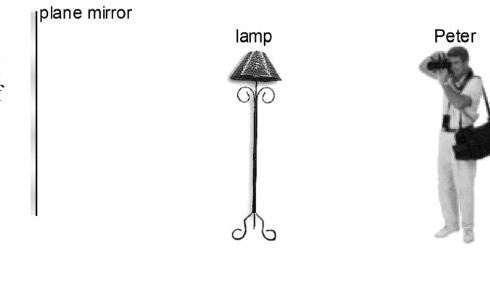
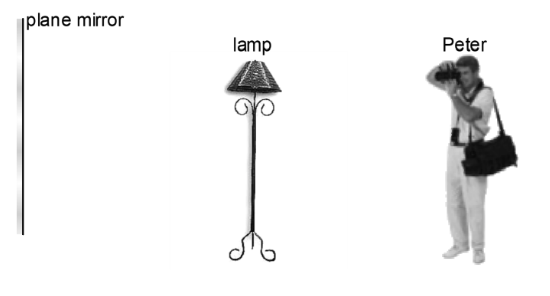
Ship ray-diagram lab tweaks and JPWM06 figure replacements.
Hide the navy editor chrome, rename the optics tool, and stop quiz diagrams stretching full-width. Replace the four JPWM06 question images with the cropped figures.

Changed region(s): [[0.7653, 0.0912, 1.0, 0.9122], [0.398, 0.0912, 0.5816, 0.8818], [0.0, 0.0, 0.2755, 0.7905]]

diff --git a/public/optics-ch3-quiz/js/quizData.js b/public/optics-ch3-quiz/js/quizData.js
@@ -40,7 +40,7 @@ export const QUIZ_ITEMS = [
     answer: "D",
     hint: "A plane mirror reverses left and right. The image 12 looks like SI, which corresponds to 10:10.",
     image: {
-      src: "./assets/jpwm06-1-clock.png",
+      src: "./assets/jpwm06-1-clock.png?v=20260911imgs",
       alt: "Clock image formed by a plane mirror",
       caption: "Fig · Plane-mirror image of a clock",
     },
@@ -60,7 +60,7 @@ export const QUIZ_ITEMS = [
     answer: "B",
     hint: "Reflected rays appear to come from the image I behind the mirror. Q and S do; P and R do not.",
     image: {
-      src: "./assets/jpwm06-2-rays.png",
+      src: "./assets/jpwm06-2-rays.png?v=20260911imgs",
       alt: "Plane mirror with object O and rays P, Q, R and S",
       caption: "Fig · Object O and rays at a plane mirror",
     },
@@ -80,7 +80,7 @@ export const QUIZ_ITEMS = [
     answer: "C",
     hint: "The lamp is 2 m from the mirror, so its image is 2 m behind the mirror. Peter is 4 m from the mirror, so he must focus 6 m away.",
     image: {
-      src: "./assets/jpwm06-3-peter.png",
+      src: "./assets/jpwm06-3-peter.png?v=20260911imgs",
       alt: "Peter, a lamp, and a plane mirror",
       caption: "Fig · Photographing the image of the lamp",
     },
@@ -100,7 +100,7 @@ export const QUIZ_ITEMS = [
     answer: "C",
     hint: "Incident ray is 30° to the horizontal and the reflected ray is vertical. Angle of incidence equals angle of reflection, so the reflector is 60° to the horizontal.",
     image: {
-      src: "./assets/jpwm06-4-reflector.png",
+      src: "./assets/jpwm06-4-reflector.png?v=20260911imgs",
       alt: "Sunlight reflector on a roof directing light vertically into a building",
       caption: "Fig · Sunlight reflector",
     },

diff --git a/quizzes/optics-ch3/js/quizData.js b/quizzes/optics-ch3/js/quizData.js
@@ -40,7 +40,7 @@ export const QUIZ_ITEMS = [
     answer: "D",
     hint: "A plane mirror reverses left and right. The image 12 looks like SI, which corresponds to 10:10.",
     image: {
-      src: "./assets/jpwm06-1-clock.png",
+      src: "./assets/jpwm06-1-clock.png?v=20260911imgs",
       alt: "Clock image formed by a plane mirror",
       caption: "Fig · Plane-mirror image of a clock",
     },
@@ -60,7 +60,7 @@ export const QUIZ_ITEMS = [
     answer: "B",
     hint: "Reflected rays appear to come from the image I behind the mirror. Q and S do; P and R do not.",
     image: {
-      src: "./assets/jpwm06-2-rays.png",
+      src: "./assets/jpwm06-2-rays.png?v=20260911imgs",
       alt: "Plane mirror with object O and rays P, Q, R and S",
       caption: "Fig · Object O and rays at a plane mirror",
     },
@@ -80,7 +80,7 @@ export const QUIZ_ITEMS = [
     answer: "C",
     hint: "The lamp is 2 m from the mirror, so its image is 2 m behind the mirror. Peter is 4 m from the mirror, so he must focus 6 m away.",
     image: {
-      src: "./assets/jpwm06-3-peter.png",
+      src: "./assets/jpwm06-3-peter.png?v=20260911imgs",
       alt: "Peter, a lamp, and a plane mirror",
       caption: "Fig · Photographing the image of the lamp",
     },
@@ -100,7 +100,7 @@ export const QUIZ_ITEMS = [
     answer: "C",
     hint: "Incident ray is 30° to the horizontal and the reflected ray is vertical. Angle of incidence equals angle of reflection, so the reflector is 60° to the horizontal.",
     image: {
-      src: "./assets/jpwm06-4-reflector.png",
+      src: "./assets/jpwm06-4-reflector.png?v=20260911imgs",
       alt: "Sunlight reflector on a roof directing light vertically into a building",
       caption: "Fig · Sunlight reflector",
     },

diff --git a/public/optics-ch3-quiz/quiz.html b/public/optics-ch3-quiz/quiz.html
@@ -68,9 +68,19 @@ tailwind.config = {
   transition: opacity 0.65s cubic-bezier(0.16, 1, 0.3, 1), transform 0.65s cubic-bezier(0.16, 1, 0.3, 1);
 }
 .q-block.q-visible { opacity: 1; transform: translateY(0); }
+.quiz-fig {
+  margin: 0 0 1rem;
+}
 .quiz-fig img {
-  display: block; width: 100%; max-height: 280px; object-fit: contain;
-  border-radius: 0.75rem; background: #f7f9fb;
+  display: block;
+  width: auto;
+  max-width: 100%;
+  height: auto;
+  max-height: 420px;
+  object-fit: contain;
+  object-position: left top;
+  border-radius: 0.75rem;
+  background: #fff;
 }
 .summary-panel[hidden] { display: none !important; }
 #settings-panel { transition: opacity 0.35s ease, transform 0.35s ease; }
@@ -167,7 +177,7 @@ tailwind.config = {
     }
     console.error("Quiz module load failed:", err);
   };
-  import("./js/quizApp.js?v=20260910jpwm06c").catch(showLoadError);
+  import("./js/quizApp.js?v=20260911jpwm06imgs").catch(showLoadError);
 </script>
 </body>
 </html>

diff --git a/quizzes/optics-ch3/quiz.html b/quizzes/optics-ch3/quiz.html
@@ -68,9 +68,19 @@ tailwind.config = {
   transition: opacity 0.65s cubic-bezier(0.16, 1, 0.3, 1), transform 0.65s cubic-bezier(0.16, 1, 0.3, 1);
 }
 .q-block.q-visible { opacity: 1; transform: translateY(0); }
+.quiz-fig {
+  margin: 0 0 1rem;
+}
 .quiz-fig img {
-  display: block; width: 100%; max-height: 280px; object-fit: contain;
-  border-radius: 0.75rem; background: #f7f9fb;
+  display: block;
+  width: auto;
+  max-width: 100%;
+  height: auto;
+  max-height: 420px;
+  object-fit: contain;
+  object-position: left top;
+  border-radius: 0.75rem;
+  background: #fff;
 }
 .summary-panel[hidden] { display: none !important; }
 #settings-panel { transition: opacity 0.35s ease, transform 0.35s ease; }
@@ -167,7 +177,7 @@ tailwind.config = {
     }
     console.error("Quiz module load failed:", err);
   };
-  import("./js/quizApp.js?v=20260910jpwm06c").catch(showLoadError);
+  import("./js/quizApp.js?v=20260911jpwm06imgs").catch(showLoadError);
 </script>
 </body>
 </html>

diff --git a/labs/ray-diagram/index.html b/labs/ray-diagram/index.html
@@ -3,15 +3,16 @@
   <head>
     <meta charset="UTF-8" />
     <meta name="viewport" content="width=device-width, initial-scale=1.0" />
-    <title>Ray diagram</title>
+    <title>Image formed by plane mirror</title>
     <meta name="google" content="notranslate" />
     <link rel="stylesheet" href="../shared/s3phy-tokens.css" />
     <link rel="stylesheet" href="../shared/s3phy-embed.css" />
     <script src="../shared/s3phy-embed-init.js"></script>
     <link rel="stylesheet" href="styles.css" />
       <style>
-      html.s3phy-embed .topbar { min-height: 48px; }
+      .topbar { display: none !important; }
       html.s3phy-embed .rail-footer { display: none; }
+      html.s3phy-embed .workspace { height: 100%; min-height: 100%; }
     </style>
   </head>
   <body>

diff --git a/public/ray-diagram/index.html b/public/ray-diagram/index.html
@@ -3,15 +3,16 @@
   <head>
     <meta charset="UTF-8" />
     <meta name="viewport" content="width=device-width, initial-scale=1.0" />
-    <title>Ray diagram</title>
+    <title>Image formed by plane mirror</title>
     <meta name="google" content="notranslate" />
     <link rel="stylesheet" href="../shared/s3phy-tokens.css" />
     <link rel="stylesheet" href="../shared/s3phy-embed.css" />
     <script src="../shared/s3phy-embed-init.js"></script>
     <link rel="stylesheet" href="styles.css" />
       <style>
-      html.s3phy-embed .topbar { min-height: 48px; }
+      .topbar { display: none !important; }
       html.s3phy-embed .rail-footer { display: none; }
+      html.s3phy-embed .workspace { height: 100%; min-height: 100%; }
     </style>
   </head>
   <body>

diff --git a/src/locales/zhHant.js b/src/locales/zhHant.js
@@ -164,7 +164,7 @@ export const zhHant = {
   'topic.rgbMixer': 'RGB \u984f\u8272\u6df7\u5408',
   'tools.em.title': '\u96fb\u78c1\u6ce2\u8b5c',
   'tools.em.pick': '\u63a2\u7d22\u6ce2\u9577\u3001\u983b\u7387\u8207\u6a21\u64ec\u5be6\u9a57',
-  'tools.rayDiagram.title': '\u5149\u7dda\u5716',
+  'tools.rayDiagram.title': '\u5e73\u9762\u93e1\u6210\u50cf',
   'tools.rayDiagram.pick': '\u5728\u65b9\u683c\u4e0a\u756b\u5e73\u9762\u93e1\u5149\u7dda\u5716',
   'worksheets.practiceTitle': '\u4e92\u52d5\u7df4\u7fd2',
   'worksheets.foundationsNotesTitle': '\u4e2d\u4e09\u7269\u7406\u57fa\u790e \u00b7 \u7269\u7406\u91cf\u3001\u55ae\u4f4d\u8207\u5e38\u7528\u6578\u5b78',

diff --git a/src/locales/en.js b/src/locales/en.js
@@ -164,7 +164,7 @@ export const en = {
   'topic.rgbMixer': 'RGB colour mixing',
   'tools.em.title': 'Electromagnetic spectrum',
   'tools.em.pick': 'Explore wavelength, frequency, and simulation labs',
-  'tools.rayDiagram.title': 'Ray diagram',
+  'tools.rayDiagram.title': 'Image formed by plane mirror',
   'tools.rayDiagram.pick': 'Draw plane-mirror ray diagrams on a square grid',
   'worksheets.practiceTitle': 'On-screen practice',
   'worksheets.foundationsNotesTitle': 'S3 Foundations · Quantities, units and maths',

diff --git a/labs/ray-diagram/styles.css b/labs/ray-diagram/styles.css
@@ -145,7 +145,7 @@ select:focus-visible {
 .workspace {
   display: grid;
   grid-template-columns: 184px minmax(400px, 1fr) 270px;
-  height: calc(100dvh - 83px);
+  height: 100dvh;
   min-height: 600px;
 }
 .toolbox {
@@ -879,7 +879,7 @@ dialog h2 {
 @media (max-width: 780px) {
   .workspace {
     grid-template-columns: 54px minmax(270px, 1fr);
-    height: calc(100dvh - 109px);
+    height: 100dvh;
     min-height: 450px;
   }
   .inspector {

diff --git a/public/ray-diagram/styles.css b/public/ray-diagram/styles.css
@@ -145,7 +145,7 @@ select:focus-visible {
 .workspace {
   display: grid;
   grid-template-columns: 184px minmax(400px, 1fr) 270px;
-  height: calc(100dvh - 83px);
+  height: 100dvh;
   min-height: 600px;
 }
 .toolbox {
@@ -879,7 +879,7 @@ dialog h2 {
 @media (max-width: 780px) {
   .workspace {
     grid-template-columns: 54px minmax(270px, 1fr);
-    height: calc(100dvh - 109px);
+    height: 100dvh;
     min-height: 450px;
   }
   .inspector {

diff --git a/src/tools/rayDiagramLab.js b/src/tools/rayDiagramLab.js
@@ -6,6 +6,6 @@ export function createRayDiagramLab(t) {
     slug: 'ray-diagram',
     titleKey: 'tools.rayDiagram.title',
     className: 'tool-ray-diagram',
-    extraParams: () => '&v=20260911_ray_diagram',
+    extraParams: () => '&v=20260911_ray_diagram_notop',
   });
 }

diff --git a/src/worksheets/opticsCh3Quiz.js b/src/worksheets/opticsCh3Quiz.js
@@ -1,6 +1,6 @@
 import { getLang } from '../i18n.js';
 
-const JPWM06_QUIZ_VERSION = '20260910jpwm06c';
+const JPWM06_QUIZ_VERSION = '20260911jpwm06imgs';
 
 /** @param {(key: string) => string} t */
 export function createOpticsCh3Quiz(t) {
